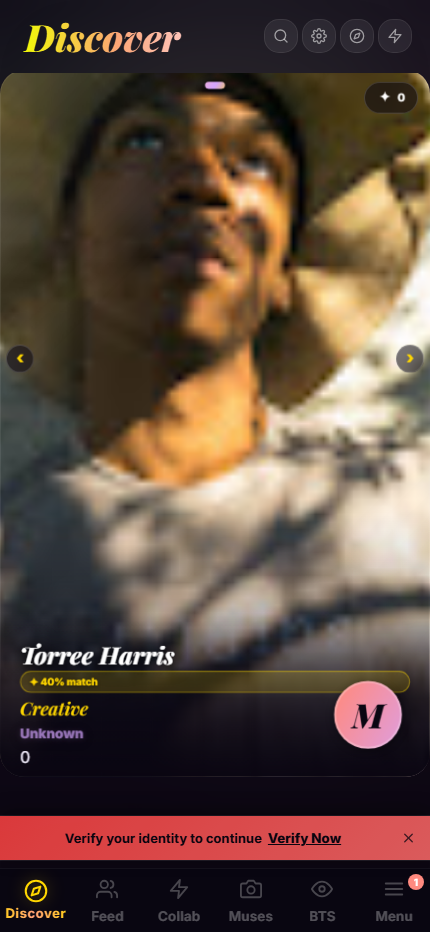
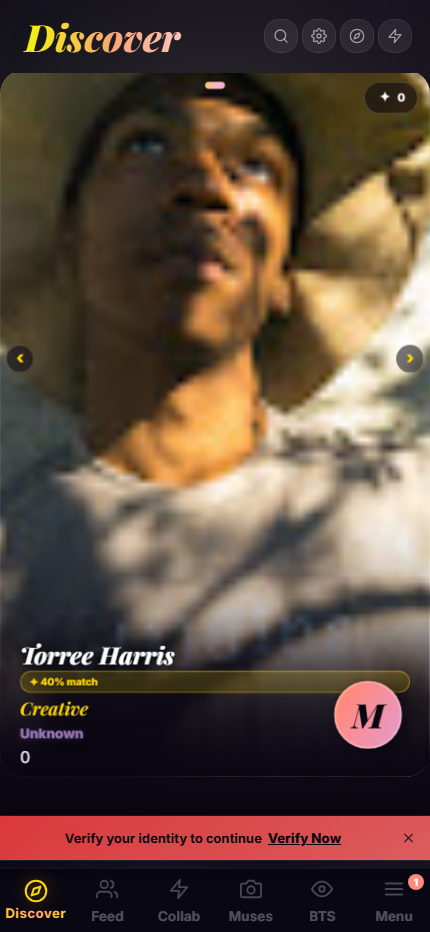
Waves: taller (24%), brighter fills (0.55/0.40/0.28), light mode also boosted

diff --git a/src/app/(muse)/muse/muse.css b/src/app/(muse)/muse/muse.css
@@ -1740,12 +1740,12 @@ img{background-color:var(--card-bg)}
 :is([data-theme="sky"],[data-theme="rose"]) .splash-ocean-tide .wave-path-2{fill:rgba(140,165,205,0.2)}
 :is([data-theme="sky"],[data-theme="rose"]) .splash-ocean-tide .wave-path-3{fill:rgba(150,170,210,0.13)}
 /* Bottom waves: lighter pastel fills for light themes */
-:is([data-theme="sunrise"],[data-theme="daylight"]) .wave-bottom .wave-path-1{fill:rgba(180,150,100,0.22)}
-:is([data-theme="sunrise"],[data-theme="daylight"]) .wave-bottom .wave-path-2{fill:rgba(190,160,110,0.15)}
-:is([data-theme="sunrise"],[data-theme="daylight"]) .wave-bottom .wave-path-3{fill:rgba(200,170,120,0.09)}
-:is([data-theme="sky"],[data-theme="rose"]) .wave-bottom .wave-path-1{fill:rgba(130,160,200,0.2)}
-:is([data-theme="sky"],[data-theme="rose"]) .wave-bottom .wave-path-2{fill:rgba(140,165,205,0.14)}
-:is([data-theme="sky"],[data-theme="rose"]) .wave-bottom .wave-path-3{fill:rgba(150,170,210,0.08)}
+:is([data-theme="sunrise"],[data-theme="daylight"]) .wave-bottom .wave-path-1{fill:rgba(180,150,100,0.45)}
+:is([data-theme="sunrise"],[data-theme="daylight"]) .wave-bottom .wave-path-2{fill:rgba(190,160,110,0.32)}
+:is([data-theme="sunrise"],[data-theme="daylight"]) .wave-bottom .wave-path-3{fill:rgba(200,170,120,0.22)}
+:is([data-theme="sky"],[data-theme="rose"]) .wave-bottom .wave-path-1{fill:rgba(130,160,200,0.40)}
+:is([data-theme="sky"],[data-theme="rose"]) .wave-bottom .wave-path-2{fill:rgba(140,165,205,0.28)}
+:is([data-theme="sky"],[data-theme="rose"]) .wave-bottom .wave-path-3{fill:rgba(150,170,210,0.18)}
 
 /* ═══ NAV ICON HUE SHIFT ═══ */
 @keyframes gradientShift{0%{background-position:0% 50%}20%{background-position:34% 72%}40%{background-position:70% 26%}60%{background-position:100% 64%}80%{background-position:52% 16%}100%{background-position:0% 50%}}
@@ -2267,15 +2267,15 @@ img{background-color:var(--card-bg)}
    The three layers use mismatched, low-frequency bezier curves so they read as
    real, uneven tides rather than a repeating synthwave pattern.
    ══════════════════════════════════════════════════════════════════════════ */
-.wave-bottom{position:fixed;bottom:0;left:50%;transform:translateX(-50%);width:min(430px,100vw);height:15.95%;z-index:1;pointer-events:none;overflow:hidden;opacity:0;transition:opacity .5s ease}
+.wave-bottom{position:fixed;bottom:0;left:50%;transform:translateX(-50%);width:min(430px,100vw);height:24%;z-index:1;pointer-events:none;overflow:hidden;opacity:0;transition:opacity .5s ease}
 .wave-bottom.show{opacity:1}
 .wave-bottom svg{position:absolute;bottom:0;left:0;width:240%;height:100%;animation:waveDrift 14s ease-in-out infinite}
-.wave-bottom svg:nth-child(2){animation-duration:20s;animation-delay:-6s;opacity:.55}
-.wave-bottom svg:nth-child(3){animation-duration:28s;animation-delay:-13s;opacity:.35}
+.wave-bottom svg:nth-child(2){animation-duration:20s;animation-delay:-6s;opacity:.7}
+.wave-bottom svg:nth-child(3){animation-duration:28s;animation-delay:-13s;opacity:.5}
 @keyframes waveDrift{0%{transform:translateX(0) translateY(0) scaleX(1)}20%{transform:translateX(-6%) translateY(-3px) scaleX(1.02)}40%{transform:translateX(-14%) translateY(5px) scaleX(0.98)}60%{transform:translateX(-8%) translateY(-4px) scaleX(1.01)}80%{transform:translateX(-2%) translateY(2px) scaleX(0.99)}100%{transform:translateX(0) translateY(0) scaleX(1)}}
-.wave-bottom .wave-path-1{fill:rgba(135,206,235,0.30)}
-.wave-bottom .wave-path-2{fill:rgba(100,181,246,0.20)}
-.wave-bottom .wave-path-3{fill:rgba(80,160,230,0.12)}
+.wave-bottom .wave-path-1{fill:rgba(135,206,235,0.55)}
+.wave-bottom .wave-path-2{fill:rgba(100,181,246,0.40)}
+.wave-bottom .wave-path-3{fill:rgba(80,160,230,0.28)}
 
 /* ══════════════════════════════════════════════════════════════════════════
    MUSE PRO BANNER — BUTTERY CINEMATIC SHEEN
